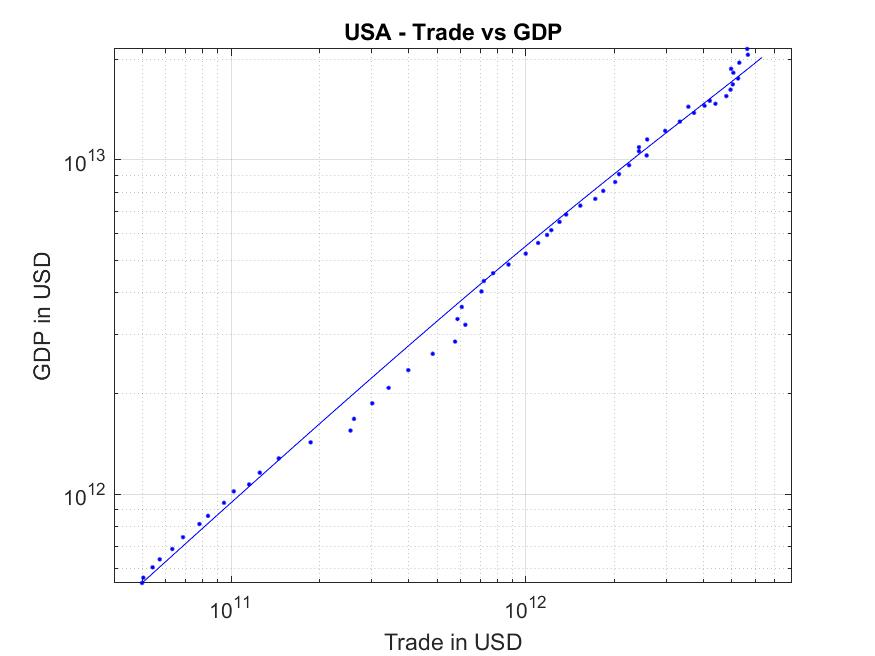
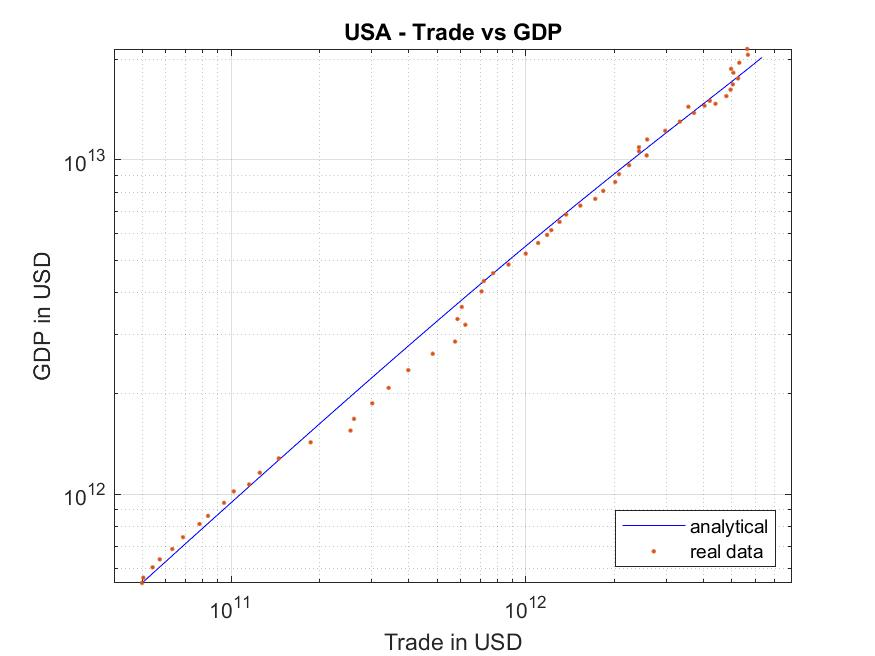
final update

diff --git a/GDP/Codes/GDP_combined.m b/GDP/Codes/GDP_combined.m
@@ -1,0 +1,126 @@
+clc;
+clear vars;
+
+load India_GDP_Trade.txt
+load US_GDP.txt
+load US_Trade.txt
+
+aGdpInd=0.080;
+aGdpUs=0.080;
+
+kGdpInd=6*1e12;
+kGdpUs=30*1e12;
+
+aTradeInd=0.100;
+aTradeUs=0.099;
+
+kTradeInd=3*1e12;
+kTradeUs=10*1e12;
+
+alphaInd=0.6;
+alphaUs=0.75;
+
+gdpInd=LogisticEqn(aGdpInd,kGdpInd,3.7*1e10);
+gdpUs=LogisticEqn(aGdpUs,kGdpUs,5.43*1e11);
+
+tradeInd=LogisticEqn(aTradeInd,kTradeInd,4.18*1e9);
+tradeUs=LogisticEqn(aTradeUs,kTradeUs,4.98*1e10);
+
+gdpVsTradeInd=PowerLaw(tradeInd,alphaInd);
+gdpVsTradeUs=PowerLaw(tradeUs,alphaUs);
+
+
+dataInd=India_GDP_Trade;
+dataIndGdp=zeros(1,60);
+dataIndTrade=zeros(1,60);
+for i = 1:60
+    dataIndGdp(i)=dataInd(i,2);
+    dataIndTrade(i)=dataInd(i,3);
+end
+
+dataUsGdpFile=US_GDP;
+dataUsTradeFile=US_Trade;
+dataUsGdp=zeros(1,60);
+dataUsTrade=zeros(1,60);
+for i = 1:60
+    dataUsGdp(i)=dataUsGdpFile(i,2);
+    dataUsTrade(i)=dataUsTradeFile(i,2);
+end
+
+t=(1960:1:2019);
+figure(1);
+semilogy(t,tradeInd,'r',t,dataIndTrade,'r.',t,gdpInd,'b',t,dataIndGdp,'b.');
+legend('Trade-analytical','Trade-real data','GDP-analytical','Gdp-real data');
+legend('location','southeast');
+grid on;
+xlabel('Year')
+ylabel('USD')
+title('India')
+saveas(gcf,'India - Trade and GDP.jpg', 'jpg')
+
+figure(2);
+semilogy(t,tradeUs,'r',t,dataUsTrade,'r.',t,gdpUs,'b',t,dataUsGdp,'b.');
+legend('Trade-analytical','Trade-real data','GDP-analytical','GDP-real data');
+legend('location','southeast');
+grid on;
+xlabel('Year')
+ylabel('USD')
+title('USA')
+saveas(gcf,'USA - Trade and GDP.jpg', 'jpg')
+
+figure(3)
+loglog(tradeInd,gdpInd,'b',dataIndTrade,dataIndGdp,'.');
+legend('analytical','real data');
+legend('location','southeast');
+grid on;
+xlabel('Trade in USD')
+ylabel('GDP in USD')
+title('India - Trade vs GDP')
+xlim([4e9,1e12]);
+saveas(gcf,'India - Trade vs GDP.jpg', 'jpg')
+
+figure(4)
+loglog(tradeUs,gdpUs,'b',dataUsTrade,dataUsGdp,'.');
+legend('analytical','real data');
+legend('location','southeast');
+grid on;
+xlabel('Trade in USD')
+ylabel('GDP in USD')
+title('USA - Trade vs GDP')
+xlim([4e10,8e12]);
+saveas(gcf,'USA - Trade vs GDP.jpg', 'jpg')
+
+%constUs=dataUsGdp(1)/gdpUs(1);
+%constUs=6e3
+%gdpVsTradeUs=constUs*gdpVsTradeUs;
+figure(5)
+loglog(tradeUs,gdpVsTradeUs,'b',dataUsTrade,dataUsGdp,'r');
+legend('analytical','real data','location','east');
+grid on;
+xlabel('Trade in USD')
+ylabel('GDP as a function of trade')
+title('USA - Trade vs GDP')
+%xlim([4e10,8e12]);
+saveas(gcf,'USA - Trade vs GDP actual.jpg', 'jpg')
+
+%constInd=dataIndTrade(1)/gdpVsTradeInd(1);
+%constInd=1e5
+%gdpVsTradeInd=constInd*gdpVsTradeInd;
+figure(6)
+loglog(tradeInd,gdpVsTradeInd,'b',dataIndTrade,dataIndGdp,'r');
+legend('location','east');
+grid on;
+xlabel('Trade in USD')
+ylabel('GDP as a function of trade')
+title('Ind - Trade vs GDP')
+legend('analytical','real data');
+saveas(gcf,'Ind - Trade vs GDP actual.jpg', 'jpg')
+
+function [gdp] = PowerLaw(trade,alpha)
+    gdp=trade.^alpha;
+end
+
+function [val] = LogisticEqn(a,k,x0)
+    t=(0:1:59);
+    val=(x0.*k.*exp(a.*t))./(k+x0.*(exp(a.*t)-1));
+end

diff --git a/IBM/Code/ibm_growth_wf.m b/IBM/Code/ibm_growth_wf.m
@@ -169,32 +169,40 @@ legend('Manipulated HR Strength', 'HR Strength fitting line');
 %% Differential Equations' plotting
 
 d_by_dt_rev = rev_lambda*rev.*(1-rev_eta*rev.^rev_alpha);
-d_by_dt_rev_est = rev_lambda*rev_est.*(1-rev_eta*rev_est.^rev_alpha);
 d_by_dt_hr = hr_lambda*hr.*(1-hr_eta*hr.^hr_alpha);
-d_by_dt_hr_est = hr_lambda*hr_est.*(1-hr_eta*hr_est.^hr_alpha);
 
-drev = rev;
+drev1 = rev;
 for i=2:length(rev)
-    drev(i)=rev(i)-rev(i-1);
+    drev1(i) = rev(i)-rev(i-1);
 end
+drev2 = rev;
+for i=1:length(rev)-1
+    drev2(i) = rev(i+1)-rev(i);
+end
+drev = (drev1+drev2)/2;
 
-dhr = hr;
+dhr1 = hr;
 for i=2:length(hr)
-    dhr(i)=hr(i)-hr(i-1);
+    dhr1(i)=hr(i)-hr(i-1);
 end
+dhr2 = hr;
+for i=1:length(hr)-1
+    dhr2(i) = hr(i+1)-hr(i);
+end
+dhr = (dhr1+dhr2)/2;
 
 figure(8);
-subplot(1,2,1);
-plot(rev, d_by_dt_rev);
-hold on;
-plot(rev_est, d_by_dt_rev_est);
-hold on;
-title('IBM Revenue values displaying parabolic behavior of Logistic Equation')
-xlabel('Revenue');
-ylabel('(d/dt)(Revenue) found through DE');
-grid on;
-legend('Ideal', 'Actual', 'location', 'south');
-subplot(1,2,2);
+% subplot(1,2,1);
+% plot(rev, d_by_dt_rev);
+% hold on;
+% plot(rev_est, d_by_dt_rev_est);
+% hold on;
+% title('IBM Revenue values displaying parabolic behavior of Logistic Equation')
+% xlabel('Revenue');
+% ylabel('(d/dt)(Revenue) found through DE');
+% grid on;
+% legend('Ideal', 'Actual', 'location', 'south');
+% subplot(1,2,2);
 plot(rev, d_by_dt_rev);
 hold on;
 plot(rev, drev, '+');
@@ -207,17 +215,17 @@ legend('Ideal', 'Actual', 'location', 'south');
 % saveas(gcf, '8__rev_parabola.png', 'png');
 
 figure(9);
-subplot(1,2,1);
-plot(hr, d_by_dt_hr);
-hold on;
-plot(hr_est, d_by_dt_hr_est);
-hold on;
-title('IBM HR Strength values failing to display parabolic behavior of Logistic Equation')
-xlabel('HR Strength');
-ylabel('(\delta/\deltat)(HR Strength)');
-grid on;
-legend('Ideal', 'Actual', 'location', 'south');
-subplot(1,2,2);
+% subplot(1,2,1);
+% plot(hr, d_by_dt_hr);
+% hold on;
+% plot(hr_est, d_by_dt_hr_est);
+% hold on;
+% title('IBM HR Strength values failing to display parabolic behavior of Logistic Equation')
+% xlabel('HR Strength');
+% ylabel('(\delta/\deltat)(HR Strength)');
+% grid on;
+% legend('Ideal', 'Actual', 'location', 'south');
+% subplot(1,2,2);
 plot(hr, d_by_dt_hr);
 hold on;
 plot(hr, dhr, '+');
